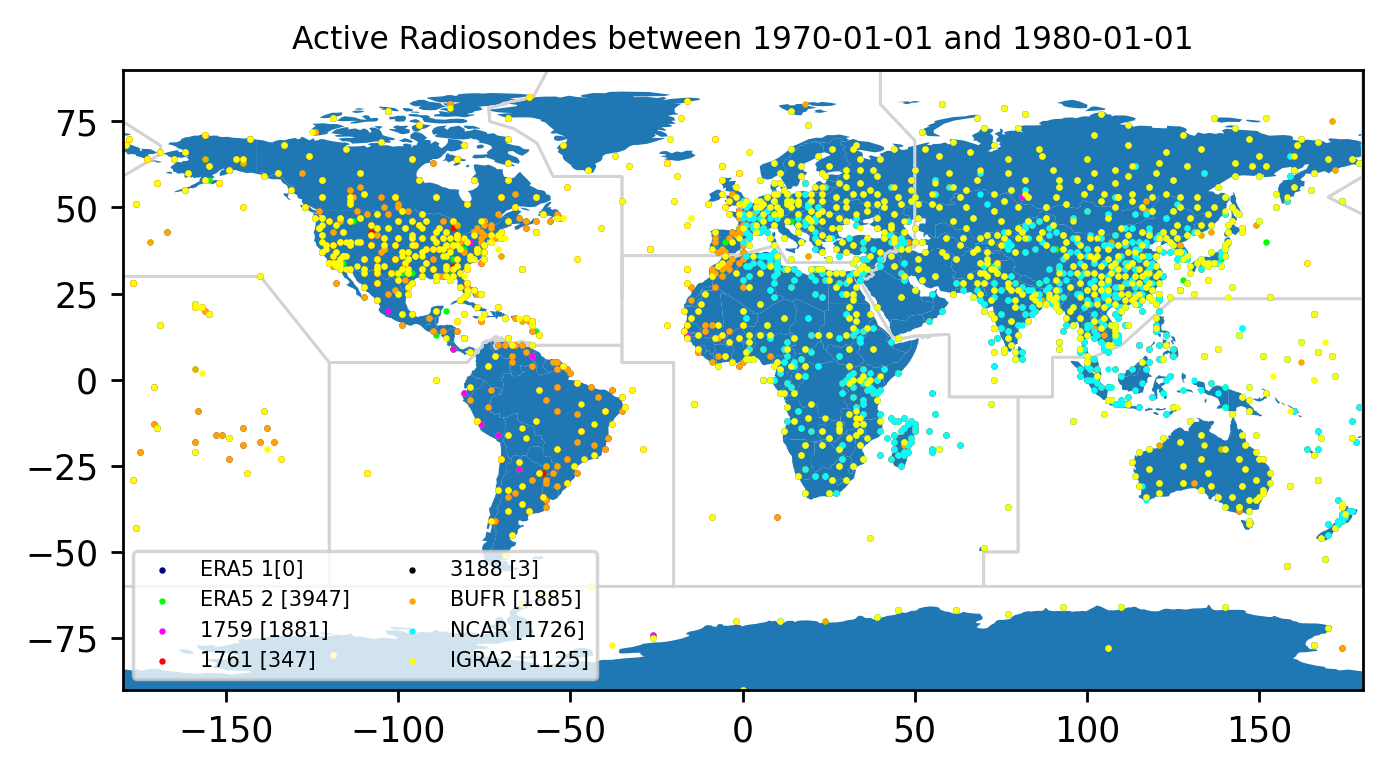
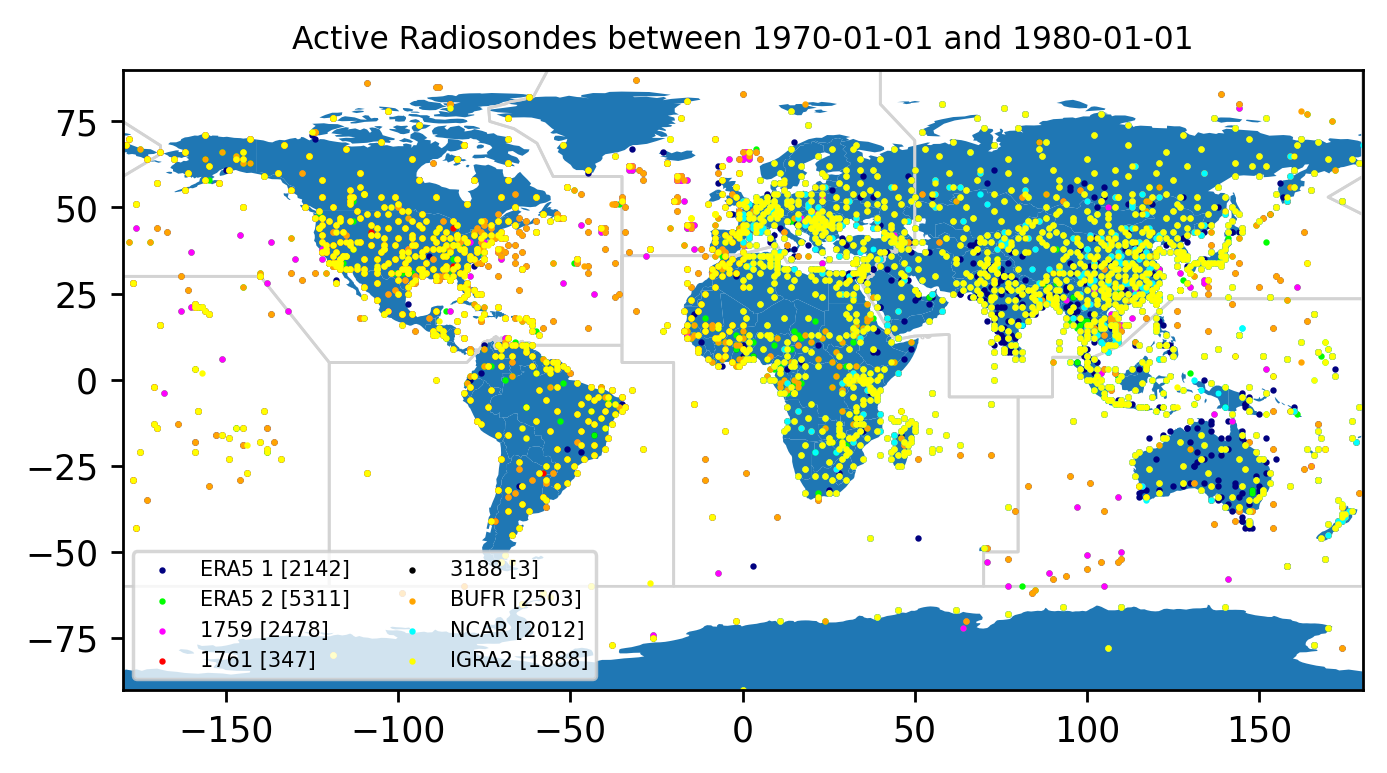
Added plots

diff --git a/CEUAS/dev_federico/world_plots/pretty_WMO_databases/pretty_WMOregions_databases.py b/CEUAS/dev_federico/world_plots/pretty_WMO_databases/pretty_WMOregions_databases.py
@@ -86,7 +86,7 @@ def make_plot_gpd(WMO, start_date = '', end_date = '' , databases = ''):
             except:
                 pass
 
-            if (start <= start_date) and (end >= start_date): # checking if the station is alive in the period
+            if (start <= end_date) and (end >= start_date): # checking if the station is alive in the period
                 LAT.append(lat)
                 LON.append(lon)
 
